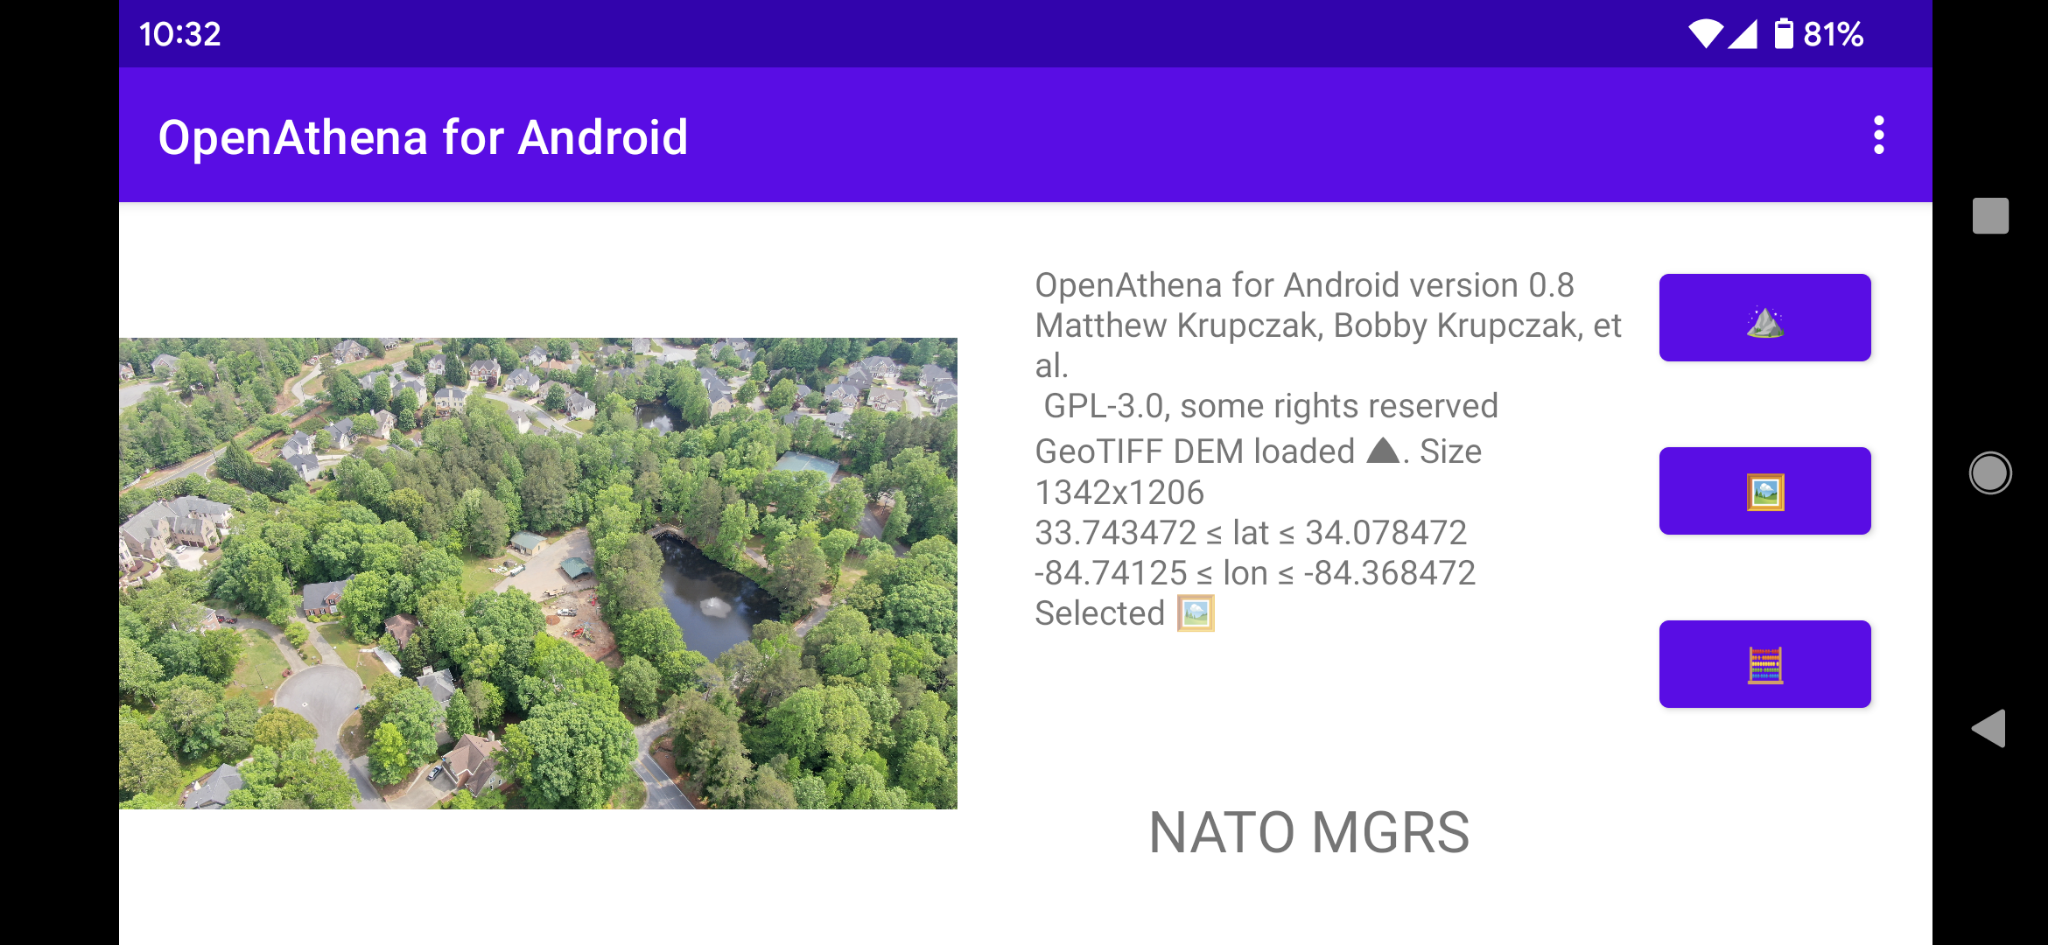
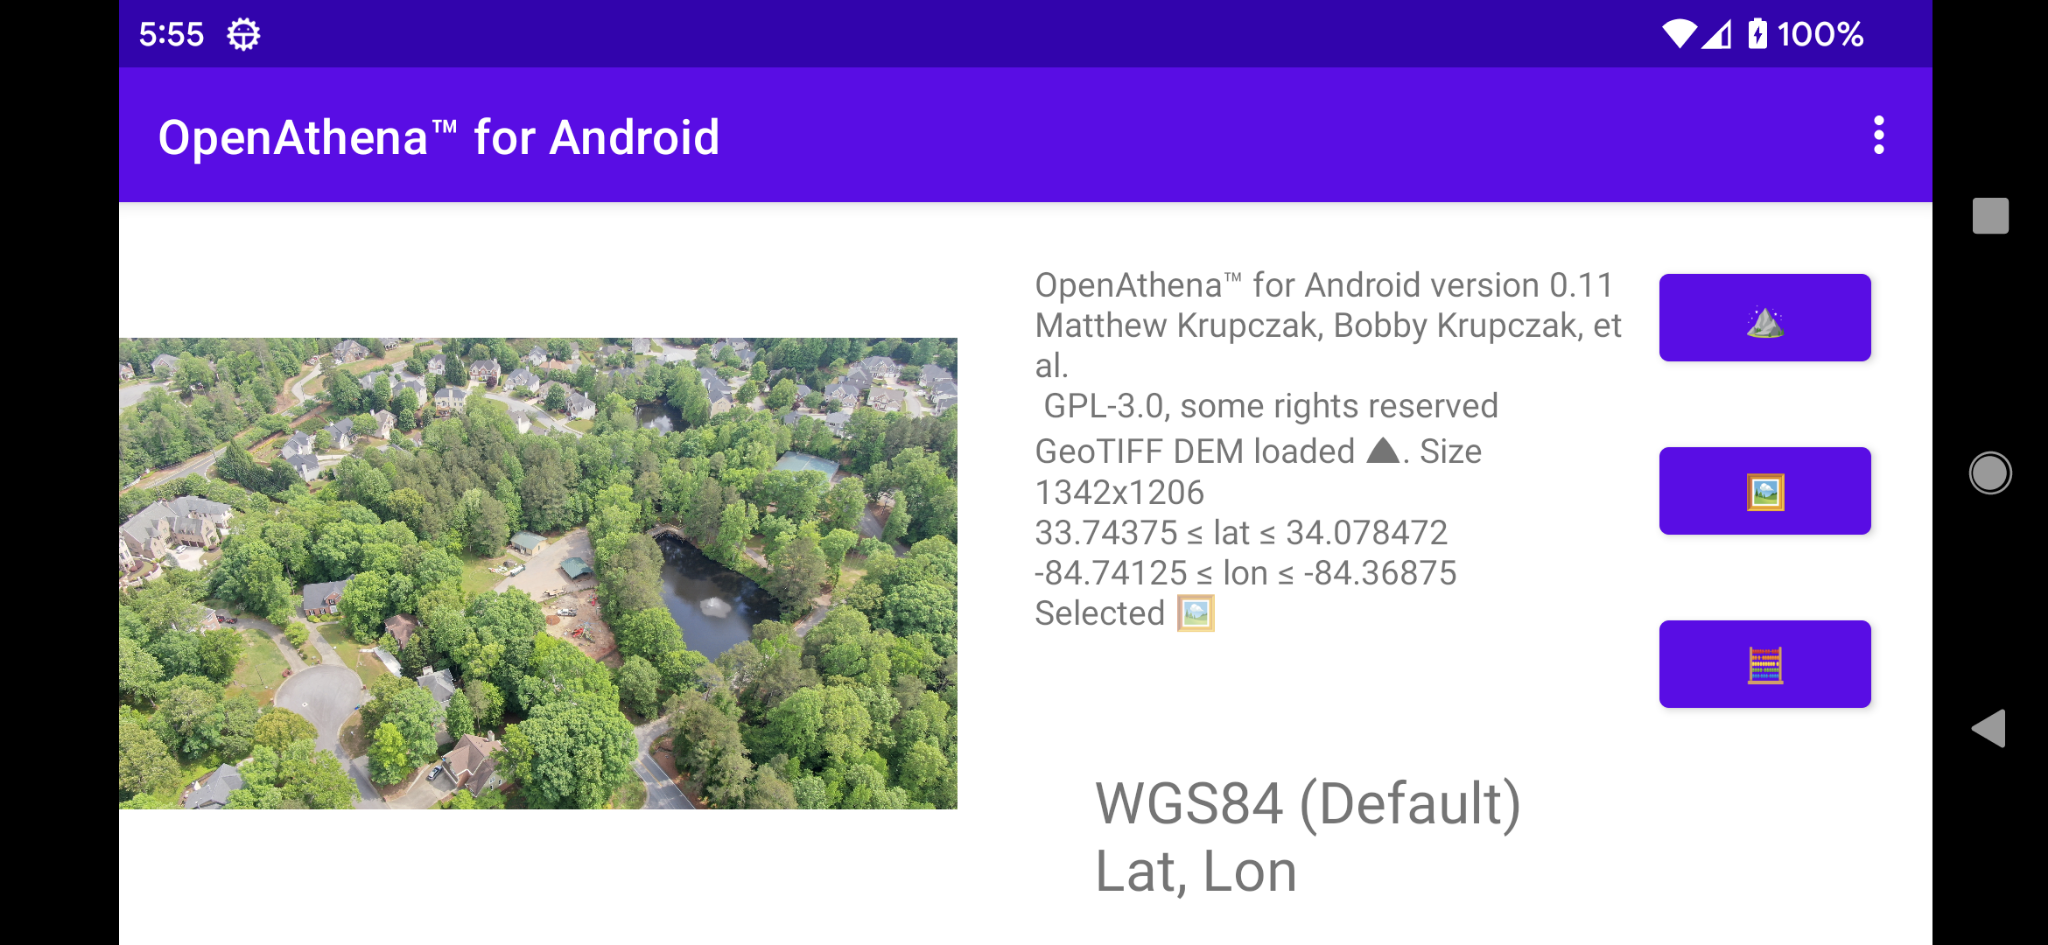
0.11 update README.md and images

diff --git a/README.md b/README.md
@@ -1,7 +1,7 @@
 # OpenAthena™ for Android
-OpenAthena™ for Android
+OpenAthena for Android
 
-An Android port of the [OpenAthena™ project](http://OpenAthena.com)
+An Android port of the [OpenAthena project](http://OpenAthena.com)
 
 OpenAthena™ allows consumer and professional drones to spot precise geodetic locations
 
@@ -12,7 +12,7 @@ OpenAthena™ allows consumer and professional drones to spot precise geodetic l
 
 # Operation Guide
 
-## GeoTIFF Digital Elevation Model parsing:
+## Obtain a GeoTIFF Digital Elevation Model:
 
 Use of this app requires loading a GeoTIFF Digital Elevation Model (DEM) file, stored as a GeoTIFF ".tif" file.
 
@@ -20,28 +20,59 @@ GeoTIFF files store terrain elevation (height) for an area of the Earth. OpenAth
 
 For information on how to clip a GeoTIFF file of a customized area, see [this link](https://github.com/mkrupczak3/OpenAthena/blob/main/EIO_fetch_geotiff_example.md).
 
+## Load a GeoTIFF Digital Elevation Model  ⛰:
+
 Load the DEM file, e.g. [cobb.tif](https://github.com/mkrupczak3/OpenAthena/raw/main/src/cobb.tif) using the " ⛰" button (NOTE: during file selection, the thumbnail  image preview for any GeoTIFF ".tif" file will be blank. This is normal.), and the app will display the size of the file as well as its Latitude and Longitude boundaries:
 
 
 <img width="586" alt="OpenAthena™ Android GeoTIFF DEM loading demo using cobb.tif" src="./assets/cobb_tif_DEM_Loading_Demo_landscape.png">
 
 
-## Automatic drone image metadata extraction
+## Select an Image 🖼:
 
 This app is compatible with images taken by select models of DJI, Skydio, Autel, and Parrot aircraft. The drone's position and its camera's orientation are automatically extracted from metadata embeded within the image.
 
-## Locating a Target 🎯
-
-After loading a GeoTIFF DEM using the " ⛰" button (see section above), use the "🖼" button to select a drone image containing the necessary metadata.
+After loading a GeoTIFF DEM using the " ⛰" button (see section above), use the "🖼" button to select a drone image containing the necessary metadata:
 
 <img width="586" alt="OpenAthena™ Android Image Selection demo using DJI_0419.JPG" src="./assets/DJI_0419_Image_Selection_Demo_landscape.png">
 
+## Calculate a target 🧮 🎯:
+
 Then, press the "🧮" button to calculate the target location on the ground:
 
-<img width="586" alt="OpenAthena™ Android Target Calculation demo using cobb.tif and DJI_0419.JPG" src="./assets/DJI_0419_Target_Res_Demo_landscape.png">
+<img width="586" alt="OpenAthena™ Android Target Calculation demo using cobb.tif and DJI_0419.JPG, output mode WGS84" src="./assets/DJI_0419_Target_Res_Demo_landscape.png">
 
 
-## Live Telemetry from DJI-SDK
+# Application Settings (optional) ⚙:
+
+OpenAthena for Android supports multiple output modes for target calculation, including:
+
+* Latitude, Longitude (standard WGS84)
+* [Nato Military Grid Reference System](https://en.wikipedia.org/wiki/Military_Grid_Reference_System) (MGRS) 1m, 10m, and 100m
+* [CK-42 Система координат](https://en.wikipedia.org/wiki/SK-42_reference_system) Latitude Longitude (an alternative geodetic system commonly used in slavic countries)
+* [CK-42 Система координат](https://en.wikipedia.org/wiki/SK-42_reference_system) [Gauss-Krüger](https://desktop.arcgis.com/en/arcmap/latest/map/projections/gauss-kruger.htm) Grid: ZONE, Northing, Easting (an alternative military grid reference system used by former Warsaw pact countries)
+
+To change the ouptut mode of OpenAthena for Android, tap the kebab menu icon (three dots) at the top-right corner of the screen and select "Settings":
+
+<img width="586" alt="OpenAthena™ Android Open Settings Activity demo" src="./assets/DJI_0419_Open_Settings_Demo_landscape.png">
+
+You will be taken to a new screen showing a list of possible output modes:
+
+<img width="270" alt="OpenAthena™ Android 🎯 Output Modes Activity demo WGS84" src="./assets/Settings_WGS84_Demo.png">
+
+Select your desired output mode by pressing its button in the list:
+
+<img width="270" alt="OpenAthena™ Android 🎯 Output Modes Activity demo NATO MGRS 10m" src="./assets/Settings_MGRS10m_Demo.png">
+
+
+Then press the back button or again tap the kebab menu icon (three dots) to return to the "Calculate" screen.
+
+Finally, press the "🧮" button to re-calculate the target location according to your chosen output mode:
+
+<img width="270" alt="OpenAthena™ Android Target Calculation demo using cobb.tif and DJI_0419.JPG, output mode NATO MGRS 10m" src="./assets/DJI_0419_Target_Res_MGRS10m_Demo.png">
+
+
+## LIVE Telemetry from DJI-SDK
 
 **TBD**
 
